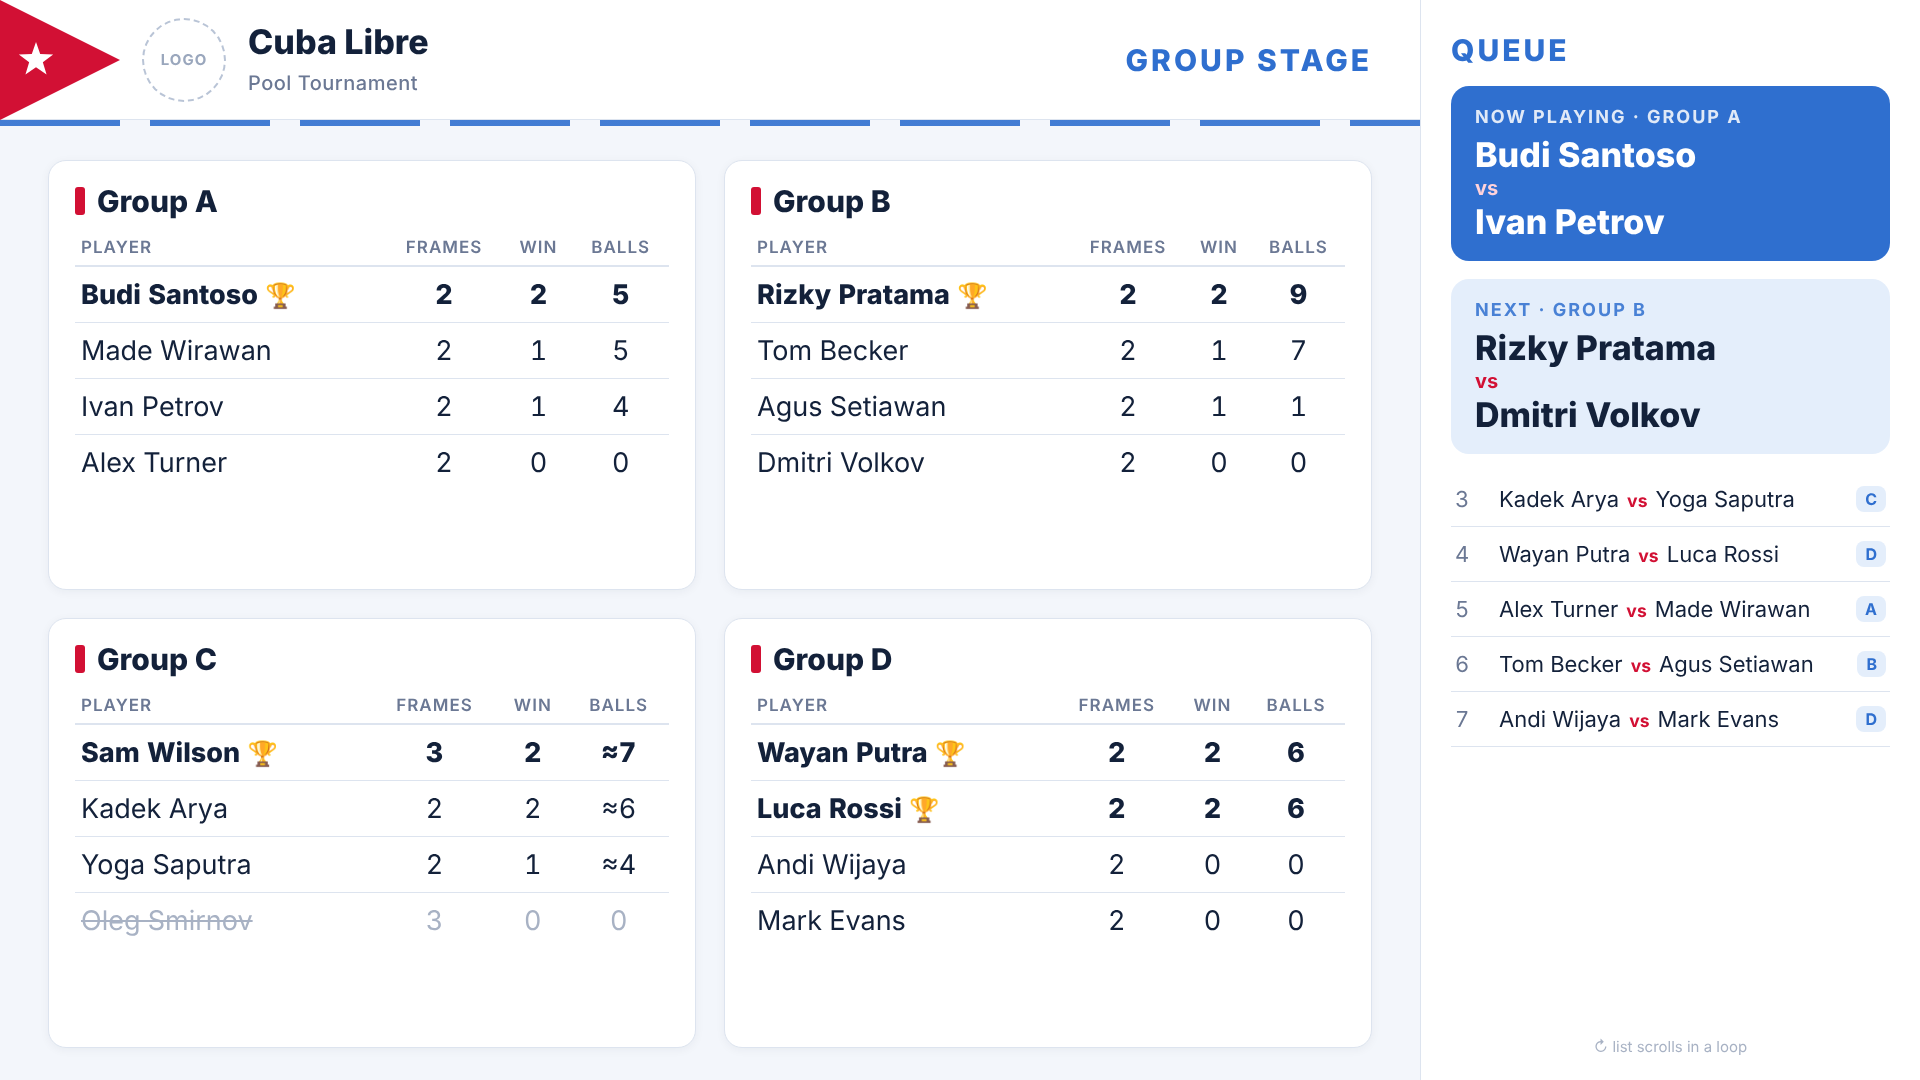
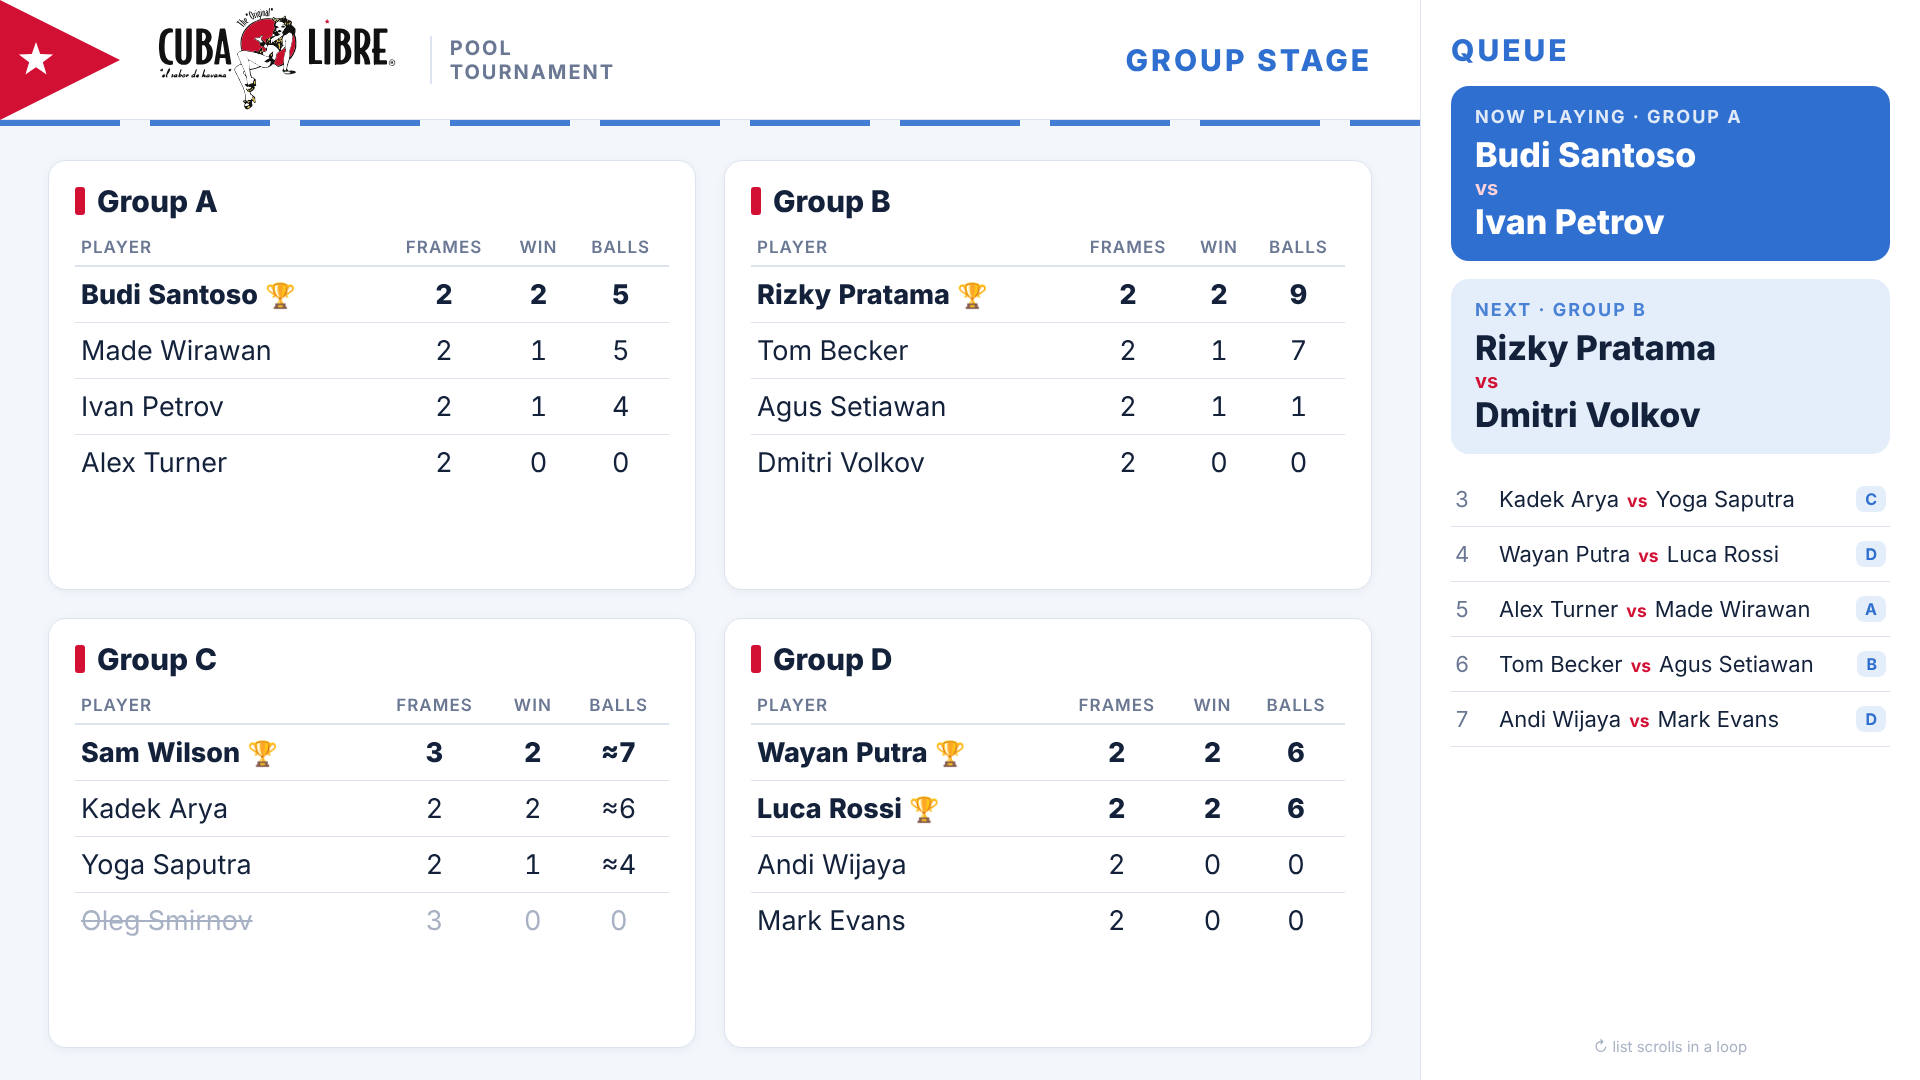
Макеты: логотип бара в шапке табло
Claude-Session: https://claude.ai/code/session_011yXgzSCi6qVWrDtUY6ogUV

Changed region(s): [[0.0625, 0.0, 0.3125, 0.0917]]

diff --git a/docs/mockups/src/data.js b/docs/mockups/src/data.js
@@ -91,6 +91,6 @@ function queueHtml() {
 
 function headerHtml(title) {
   return `<header class="top"><div class="flag"><svg viewBox="0 0 100 100"><polygon points="0,0 100,50 0,100" fill="#D21034"/><polygon points="30.0,35.0 33.5,45.1 44.3,45.4 35.7,51.9 38.8,62.1 30.0,56.0 21.2,62.1 24.3,51.9 15.7,45.4 26.5,45.1" fill="#fff"/></svg></div>
-    <div class="logo">LOGO</div><div class="brand">Cuba Libre<br><span>Pool Tournament</span></div>
+    <img class="bar-logo" src="../../assets/cuba-libre-logo.svg" alt="Cuba Libre"><div class="brand-sub">Pool<br>Tournament</div>
     <div class="slide-title">${title}</div></header>`;
 }

diff --git a/docs/mockups/src/tv.css b/docs/mockups/src/tv.css
@@ -36,6 +36,8 @@ header.top::after { /* полосы флага */
 }
 .brand { font-size: 34px; font-weight: 800; line-height: 1.05; }
 .brand span { font-size: 20px; font-weight: 500; color: var(--muted); letter-spacing: .5px; }
+.bar-logo { height: 112px; width: auto; display: block; }
+.brand-sub { font-size: 20px; font-weight: 700; color: var(--muted); letter-spacing: 2px; text-transform: uppercase; line-height: 1.2; padding-left: 18px; border-left: 2px solid var(--line); }
 .slide-title {
   margin-left: auto; font-size: 30px; font-weight: 800; color: var(--blue);
   text-transform: uppercase; letter-spacing: 3px;

diff --git a/docs/requirements.md b/docs/requirements.md
@@ -163,6 +163,7 @@
 - **После финала** показывается только слайд с пьедесталом.
 - **До старта турнира** показывается только экран-заглушка с логотипом бара, без блока очереди. Возможно, добавим несложное видео.
 - **Логотип бара** есть на заглушке и в шапке табло. Файлы без фона: `docs/assets/cuba-libre-logo.svg` (вектор, перерисован по фото меню, масштабируется без потерь) и `docs/assets/cuba-libre-logo.png` (2720×1147). Возможны небольшие отличия от оригинала.
+- **Шапка табло:** треугольник со звездой, логотип бара и подпись «Pool Tournament». На стартовом экране и заглушке логотип пока не ставим.
 - **Медиафайлы.** Пока логотипа, видео и других файлов нет, используются заглушки.
 - **Слайд «Сейчас играют»:**
   - слева крупно имя первого игрока, под ним мельче, в столбик, его текущие показатели;
